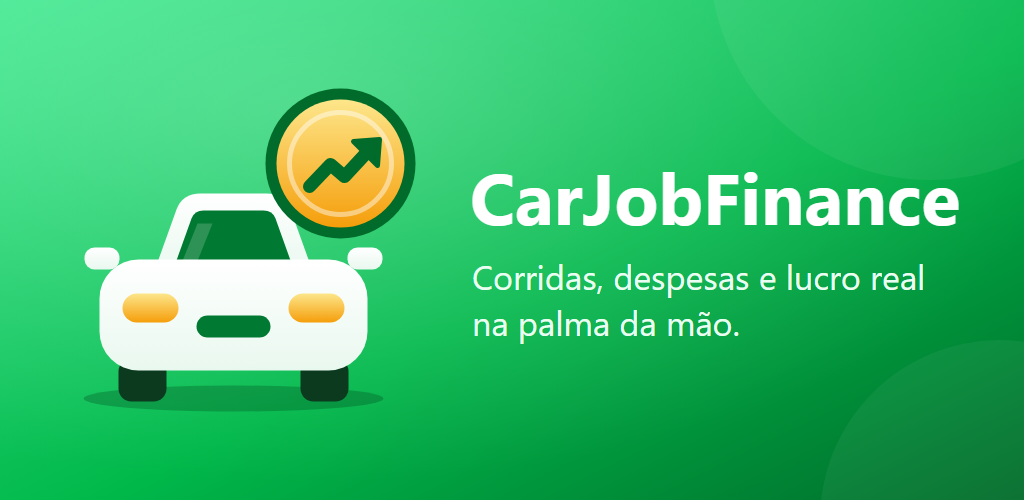
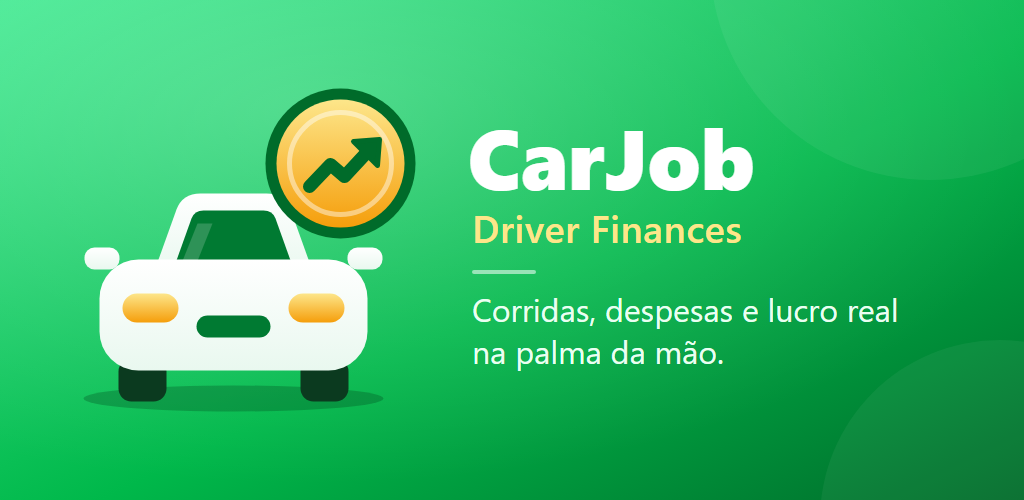
chore(store): screenshots e feature graphic com o nome CarJob - Driver Finances

Changed region(s): [[0.4375, 0.24, 0.9375, 0.51], [0.4375, 0.54, 0.9062, 0.75]]

diff --git a/store_assets/source/make_svgs.py b/store_assets/source/make_svgs.py
@@ -85,12 +85,15 @@ variants = {
         '<circle cx="930" cy="-40" r="220" fill="#ffffff" opacity="0.06"/>'
         '<circle cx="1000" cy="520" r="180" fill="#ffffff" opacity="0.05"/>'
         + mark(0.5, 250, 250)
-        + '<text x="470" y="225" font-family="Segoe UI, Roboto, sans-serif" font-weight="700" '
-        'font-size="72" fill="#ffffff">CarJobFinance</text>'
-        '<text x="472" y="290" font-family="Segoe UI, Roboto, sans-serif" font-weight="400" '
-        'font-size="34" fill="#eafff2">Corridas, despesas e lucro real</text>'
-        '<text x="472" y="336" font-family="Segoe UI, Roboto, sans-serif" font-weight="400" '
-        'font-size="34" fill="#eafff2">na palma da mão.</text>',
+        + '<text x="468" y="190" font-family="Segoe UI, Roboto, sans-serif" font-weight="800" '
+        'font-size="84" fill="#ffffff">CarJob</text>'
+        '<text x="472" y="243" font-family="Segoe UI, Roboto, sans-serif" font-weight="600" '
+        'font-size="38" fill="#fde68a" letter-spacing="0.5">Driver Finances</text>'
+        '<rect x="472" y="270" width="64" height="4" rx="2" fill="#ffffff" opacity="0.55"/>'
+        '<text x="472" y="322" font-family="Segoe UI, Roboto, sans-serif" font-weight="400" '
+        'font-size="32" fill="#eafff2">Corridas, despesas e lucro real</text>'
+        '<text x="472" y="364" font-family="Segoe UI, Roboto, sans-serif" font-weight="400" '
+        'font-size="32" fill="#eafff2">na palma da mão.</text>',
     ),
 }
 
